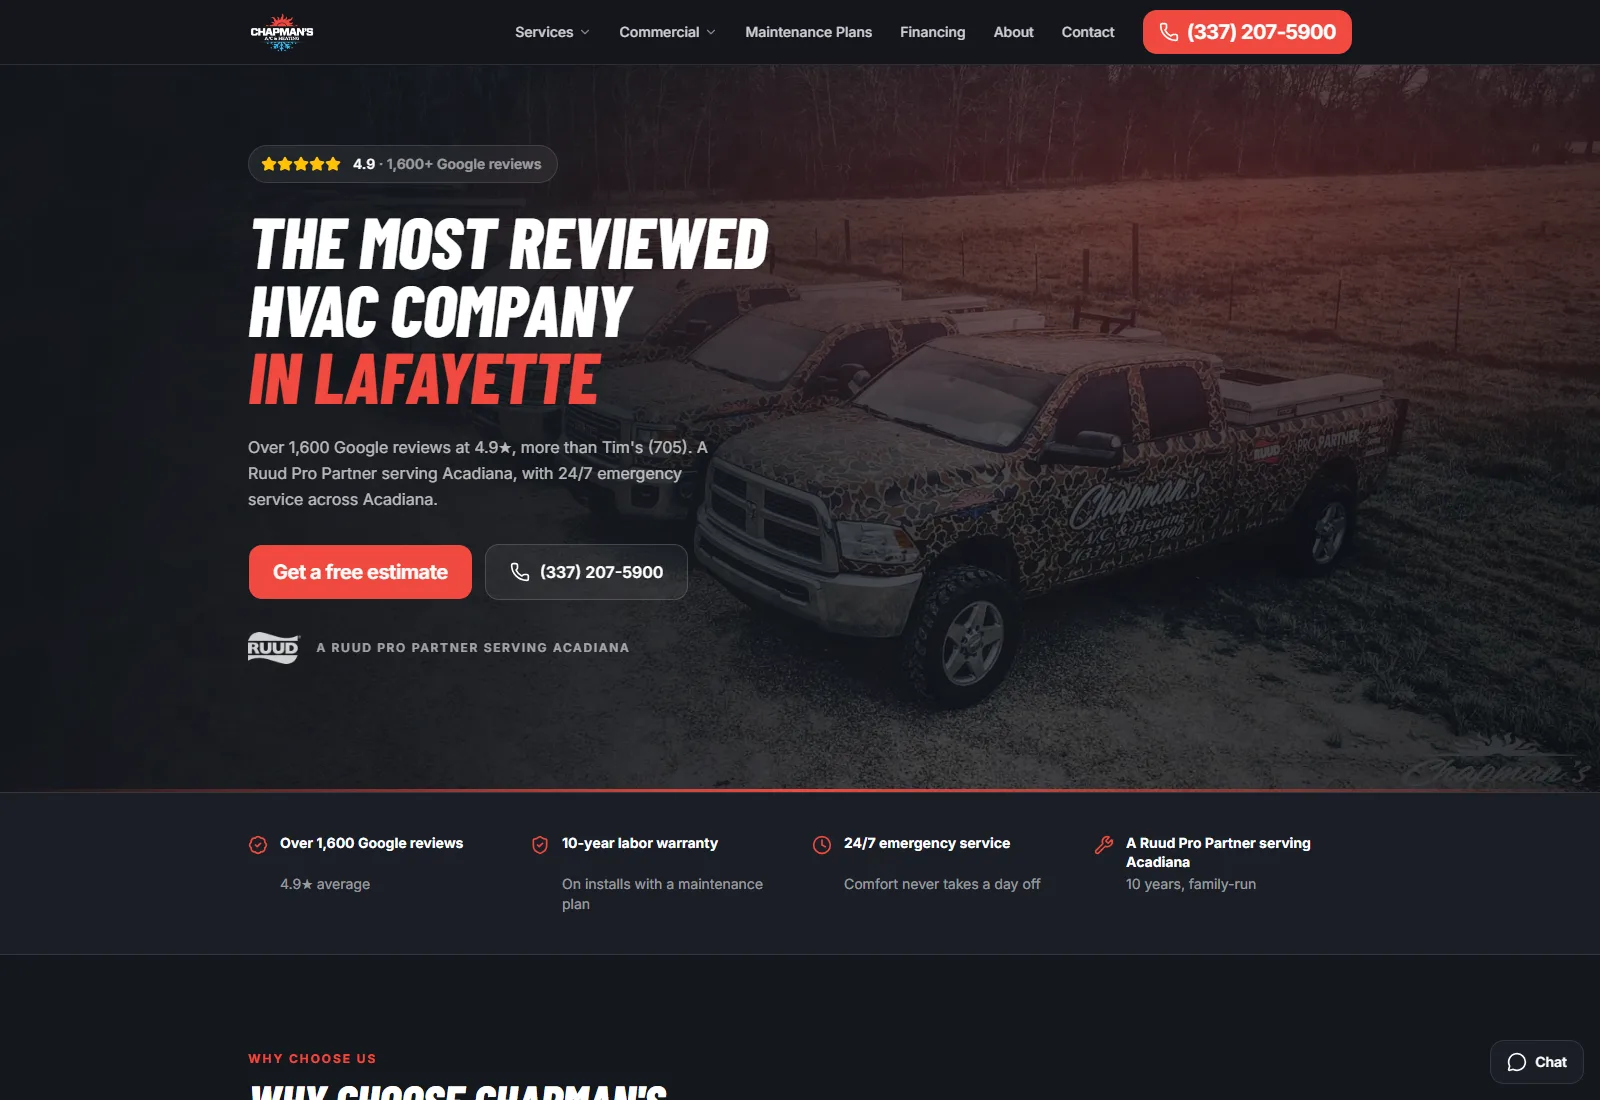
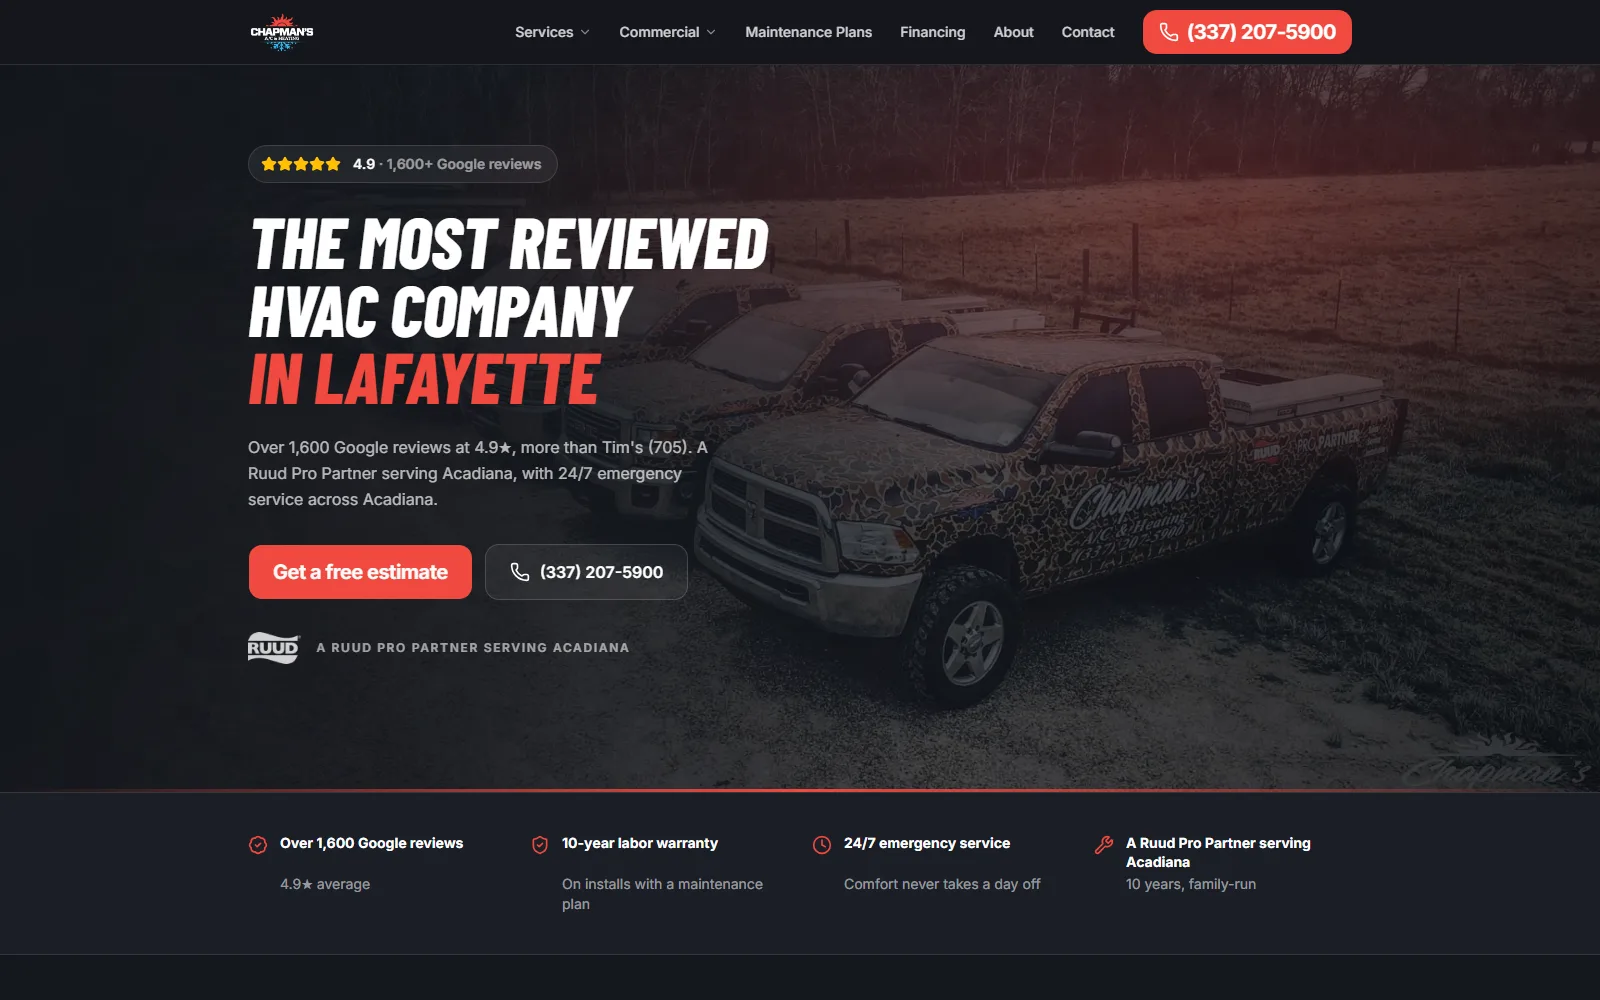
fix: responsive pass across mobile/tablet/laptop from 4-viewport audit
- grid-column spans scoped to >=1024 (story/experience/footer/contact) -
  span-N children in 1-col grids were creating implicit tracks and
  squeezing content
- email link: nowrap + JS fit-to-container, no more mid-address breaks
- credentials: stacked rows <640, single column until 1280
- work cards: meta stacks <640; SAVAGE shot anchored left-top;
  Chapman's card image recropped to end in whitespace
- stack dots attached as tag pseudo-elements (no orphaned bullets)
- lightbox: solid bg + pannable 2x image + drag hint <=640; 44px touch
  targets for close/prev/next; nav links get real touch padding
- impact 4-up moved to >=1280 (2x2 at tablet), label measure relaxed
- contact grid two-column only >=1280
- hero: description scrim + smaller portrait <=640; scroll cue backdrop

diff --git a/index.html b/index.html
@@ -79,12 +79,13 @@ header.site-nav{position:fixed;inset-inline:0;top:0;z-index:50;pointer-events:no
 header.site-nav nav{pointer-events:auto;display:flex;align-items:center;justify-content:space-between;padding:1.5rem var(--gutter)}
 .logo{display:flex;align-items:center;gap:0.75rem}
 .logo .mono{display:grid;place-items:center;width:2.5rem;height:2.5rem;border-radius:9999px;border:1px solid var(--line-strong);font-weight:600;letter-spacing:-0.01em;font-size:var(--fs-eyebrow)}
-.logo .name{display:none;font-size:var(--fs-eyebrow);font-weight:500;text-transform:uppercase;letter-spacing:0.22em;color:var(--muted)}
+.logo .name{display:none;font-size:var(--fs-eyebrow);font-weight:500;text-transform:uppercase;letter-spacing:0.22em;color:var(--muted);white-space:nowrap}
 @media (min-width:640px){.logo .name{display:block}}
 .nav-links{display:none;gap:2.5rem}
-@media (min-width:768px){.nav-links{display:flex}}
-.nav-links a{position:relative;font-size:var(--fs-eyebrow);font-weight:500;text-transform:uppercase;letter-spacing:0.18em;color:var(--muted);transition:color 300ms ease}
-.nav-links a::after{content:"";position:absolute;bottom:-0.25rem;left:0;height:1px;width:0;background:var(--accent);transition:width 340ms ease-out}
+@media (min-width:768px){.nav-links{display:flex;align-items:center}}
+@media (min-width:768px) and (max-width:1200px){.nav-links{gap:1.5rem}}
+.nav-links a{position:relative;font-size:var(--fs-eyebrow);font-weight:500;text-transform:uppercase;letter-spacing:0.18em;color:var(--muted);transition:color 300ms ease;padding:0.75rem 0.25rem;display:inline-flex;align-items:center}
+.nav-links a::after{content:"";position:absolute;bottom:0.35rem;left:0.25rem;height:1px;width:0;background:var(--accent);transition:width 340ms ease-out}
 .nav-links a:hover{color:var(--foreground)}
 .nav-links a:hover::after{width:100%}
 .burger{display:flex;flex-direction:column;justify-content:center;gap:0.375rem;width:2.5rem;height:2.5rem;align-items:center}
@@ -107,6 +108,10 @@ header.site-nav nav{pointer-events:auto;display:flex;align-items:center;justify-
 .hero-roles .line-mask>span{transition-duration:760ms}
 .hero-desc{max-width:26rem;font-size:var(--fs-body);color:var(--muted);opacity:0;transform:translateY(16px);transition:opacity 520ms var(--ease-out-expo),transform 520ms var(--ease-out-expo)}
 @media (min-width:640px){.hero-desc{text-align:right}}
+@media (max-width:640px){
+  .hero-desc{position:relative;z-index:31;padding:0.75rem;margin-inline:-0.75rem;background:linear-gradient(180deg,rgba(8,8,10,0.88),rgba(8,8,10,0.6) 80%,transparent);border-radius:0.125rem}
+  .hero-portrait{height:72vh;width:96vw}
+}
 .hero-desc.show{opacity:1;transform:none}
 .hero-portrait{position:absolute;bottom:0;left:50%;transform:translateX(-50%);z-index:20;height:86vh;width:80vw;pointer-events:none}
 .hero-portrait .liquid{width:100%;height:100%;pointer-events:auto}
@@ -119,7 +124,7 @@ header.site-nav nav{pointer-events:auto;display:flex;align-items:center;justify-
 .hero-name .lt{display:inline-block;overflow:hidden;vertical-align:bottom}
 .hero-name .lt>span{display:inline-block;transform:translateY(100%);opacity:0;transition:transform 900ms var(--ease-out-expo),opacity 900ms var(--ease-out-expo)}
 .hero-name .lt>span.in{transform:none;opacity:1}
-.scroll-cue{position:absolute;bottom:2rem;left:var(--gutter);z-index:30;display:flex;align-items:center;gap:0.75rem;font-size:var(--fs-eyebrow);text-transform:uppercase;letter-spacing:0.22em;color:var(--muted);opacity:0;transition:opacity 800ms ease}
+.scroll-cue{position:absolute;bottom:2rem;left:var(--gutter);z-index:30;display:flex;align-items:center;gap:0.75rem;font-size:var(--fs-eyebrow);text-transform:uppercase;letter-spacing:0.22em;color:var(--foreground);opacity:0;transition:opacity 800ms ease;padding:0.5rem 1rem 0.5rem 0;background:linear-gradient(90deg,rgba(8,8,10,0.8) 60%,transparent)}
 .scroll-cue::before{content:"";width:2.5rem;height:1px;background:var(--accent)}
 .scroll-cue.show{opacity:1}
 
@@ -142,9 +147,10 @@ section.pad,footer.pad{padding:var(--section) var(--gutter)}
 /* story */
 #story .grid{display:grid;grid-template-columns:1fr;gap:3rem}
 @media (min-width:1024px){#story .grid{grid-template-columns:repeat(12,1fr);gap:var(--gutter)}}
-#story .left{grid-column:span 6}
-#story .right{grid-column:span 6}
-@media (min-width:1024px){#story .right{padding-top:0.5rem}}
+@media (min-width:1024px){
+  #story .left{grid-column:span 6}
+  #story .right{grid-column:span 6;padding-top:0.5rem}
+}
 #story h2{max-width:16ch}
 #story .lead{margin-top:2rem;max-width:46ch;font-size:var(--fs-lead);line-height:1.45;color:var(--muted)}
 .principle{display:grid;grid-template-columns:auto 1fr;column-gap:1.5rem;border-top:1px solid var(--line);padding:2rem 0}
@@ -160,36 +166,43 @@ section.pad,footer.pad{padding:var(--section) var(--gutter)}
   #work ul.cards>li:nth-child(even){margin-top:6rem}
 }
 .card .liquid{aspect-ratio:16/11;width:100%;border-radius:0.125rem}
-.card .meta{margin-top:1.5rem;border-top:1px solid var(--line);padding-top:1.25rem;display:flex;align-items:flex-start;justify-content:space-between;gap:1.5rem}
+.card .meta{margin-top:1.5rem;border-top:1px solid var(--line);padding-top:1.25rem;display:block}
+@media (min-width:640px){.card .meta{display:flex;align-items:flex-start;justify-content:space-between;gap:1.5rem}}
+.card .meta > div:first-child{min-width:0}
 .card h3{font-size:var(--fs-h3);font-weight:600;letter-spacing:-0.01em;line-height:1.15;transition:color 340ms ease-out}
 .card:hover h3{color:var(--accent)}
 .card .blurb{margin-top:0.5rem;max-width:42ch;color:var(--muted)}
-.card .side{flex-shrink:0;text-align:right}
+.card .side{display:flex;align-items:baseline;gap:1.25rem;margin-top:0.75rem}
+@media (min-width:640px){.card .side{display:block;flex-shrink:0;text-align:right;margin-top:0}}
 .card .year{font-size:var(--fs-eyebrow);text-transform:uppercase;letter-spacing:0.18em;color:var(--muted)}
-.card .outcome{margin-top:0.5rem;font-size:var(--fs-eyebrow);font-weight:500;text-transform:uppercase;letter-spacing:0.18em;color:var(--accent)}
+.card .outcome{font-size:var(--fs-eyebrow);font-weight:500;text-transform:uppercase;letter-spacing:0.18em;color:var(--accent)}
+@media (min-width:640px){.card .outcome{margin-top:0.5rem}}
 .card .cat{margin-top:0.75rem;font-size:var(--fs-eyebrow);text-transform:uppercase;letter-spacing:0.22em;color:var(--muted)}
 
 /* impact */
 #impact dl{margin-top:4rem;display:grid;grid-template-columns:1fr;border-top:1px solid var(--line)}
 @media (min-width:640px){#impact dl{grid-template-columns:1fr 1fr}}
-@media (min-width:1024px){#impact dl{grid-template-columns:repeat(4,1fr)}}
+@media (min-width:1280px){#impact dl{grid-template-columns:repeat(4,1fr)}}
 #impact .stat{display:flex;flex-direction:column;gap:1rem;border-bottom:1px solid var(--line);padding:2.5rem 0}
-@media (min-width:1024px){#impact .stat{padding:3rem 0}}
-@media (min-width:640px) and (max-width:1023.9px){
+@media (min-width:1280px){#impact .stat{padding:3rem 0}}
+@media (min-width:640px) and (max-width:1279.9px){
   #impact .stat:nth-child(even){border-left:1px solid var(--line);padding-left:2rem}
 }
-@media (min-width:1024px){
+@media (min-width:1280px){
   #impact .stat:not(:nth-child(4n+1)){border-left:1px solid var(--line);padding-left:2rem}
 }
 #impact dd{font-family:var(--font-display);font-size:var(--fs-display);line-height:1;letter-spacing:-0.01em;transition:color 340ms ease-out}
 #impact .stat:hover dd{color:var(--accent)}
-#impact dt{max-width:20ch;font-size:var(--fs-body);text-transform:uppercase;letter-spacing:0.14em;color:var(--muted)}
+#impact dt{max-width:28ch;font-size:var(--fs-body);text-transform:uppercase;letter-spacing:0.14em;color:var(--muted)}
+@media (min-width:1280px){#impact dt{max-width:20ch}}
 
 /* experience (voices pattern) */
 #experience .grid{margin-top:4rem;display:grid;grid-template-columns:1fr;gap:3rem}
 @media (min-width:1024px){#experience .grid{grid-template-columns:repeat(12,1fr);gap:var(--gutter)}}
-#experience .selector{grid-column:span 5}
-#experience .panel{grid-column:span 7}
+@media (min-width:1024px){
+  #experience .selector{grid-column:span 5}
+  #experience .panel{grid-column:span 7}
+}
 .xp-btn{display:flex;align-items:baseline;gap:1.25rem;width:100%;border-top:1px solid var(--line);padding:1.75rem 0;text-align:left}
 #experience li:last-child .xp-btn{border-bottom:1px solid var(--line)}
 .xp-btn .idx{font-size:var(--fs-eyebrow);font-variant-numeric:tabular-nums;letter-spacing:0.18em;color:var(--muted);transition:color 300ms}
@@ -206,11 +219,16 @@ section.pad,footer.pad{padding:var(--section) var(--gutter)}
 
 /* credentials */
 #credentials ul{margin-top:4rem;display:grid;grid-template-columns:1fr;column-gap:var(--gutter)}
-@media (min-width:768px){#credentials ul{grid-template-columns:1fr 1fr}}
-#credentials li a{display:flex;align-items:baseline;justify-content:space-between;gap:1.5rem;border-top:1px solid var(--line);padding:1.1rem 0}
-#credentials li a .t{font-weight:500;letter-spacing:-0.01em;transition:color 300ms}
+@media (min-width:1280px){#credentials ul{grid-template-columns:1fr 1fr}}
+#credentials li a{display:block;border-top:1px solid var(--line);padding:1.1rem 0}
+#credentials li a .t{display:block;font-weight:500;letter-spacing:-0.01em;transition:color 300ms}
 #credentials li a:hover .t{color:var(--accent)}
-#credentials li a .m{flex-shrink:0;text-align:right;font-size:var(--fs-eyebrow);text-transform:uppercase;letter-spacing:0.14em;color:var(--muted)}
+#credentials li a .m{display:block;margin-top:0.35rem;font-size:var(--fs-eyebrow);text-transform:uppercase;letter-spacing:0.14em;color:var(--muted)}
+@media (min-width:640px){
+  #credentials li a{display:flex;align-items:baseline;justify-content:space-between;gap:1.5rem}
+  #credentials li a .t{min-width:0}
+  #credentials li a .m{margin-top:0;flex-shrink:0;text-align:right}
+}
 
 /* stack */
 #stack ul.stack-groups{margin-top:4rem}
@@ -218,17 +236,17 @@ section.pad,footer.pad{padding:var(--section) var(--gutter)}
 .stack-group:last-child{border-bottom:1px solid var(--line)}
 .stack-group .num{font-size:var(--fs-h3);font-weight:600;font-variant-numeric:tabular-nums;color:var(--accent);line-height:1.15}
 .stack-group h3{font-size:var(--fs-h3);font-weight:600;letter-spacing:-0.01em;line-height:1.15}
-.skill-tags{margin-top:1.25rem;display:flex;flex-wrap:wrap;align-items:center;row-gap:0.75rem}
+.skill-tags{margin-top:1.25rem;display:flex;flex-wrap:wrap;align-items:center;gap:0.75rem 1rem}
 .skill-tags .tag{font-family:var(--font-display);font-size:1.5rem;text-transform:uppercase;letter-spacing:0.02em;line-height:1;color:var(--foreground);transition:color 300ms ease-out;white-space:nowrap}
 .skill-tags .tag:hover{color:var(--accent)}
-.skill-tags .sdot{width:0.375rem;height:0.375rem;border-radius:9999px;background:var(--accent);margin-inline:1rem;flex-shrink:0}
+.skill-tags .tag:not(:last-child)::after{content:"";display:inline-block;width:0.375rem;height:0.375rem;border-radius:9999px;background:var(--accent);margin-left:1rem;vertical-align:middle}
 
 /* contact form */
 .contact-grid{display:grid;grid-template-columns:1fr;gap:4rem}
-@media (min-width:1024px){
+@media (min-width:1280px){
   .contact-grid{grid-template-columns:repeat(12,1fr);gap:var(--gutter)}
-  .c-left{grid-column:span 7}
-  .c-right{grid-column:span 5;padding-top:0.5rem}
+  .c-left{grid-column:1 / span 6}
+  .c-right{grid-column:8 / span 5;padding-top:0.5rem}
 }
 .form-title{font-size:var(--fs-h3);font-weight:600;letter-spacing:-0.01em;line-height:1.15}
 #contactForm label{display:block;font-size:var(--fs-eyebrow);font-weight:500;text-transform:uppercase;letter-spacing:0.18em;color:var(--muted);margin-top:2rem}
@@ -252,7 +270,7 @@ section.pad,footer.pad{padding:var(--section) var(--gutter)}
 #contact h2{max-width:18ch;font-size:var(--fs-h1);line-height:0.95}
 @media (min-width:640px){#contact h2{font-size:var(--fs-display)}}
 #contact .note{margin-top:2rem;max-width:44ch;font-size:var(--fs-lead);line-height:1.45;color:var(--muted)}
-.email-link{margin-top:3rem;display:inline-flex;align-items:baseline;gap:0.75rem;font-size:var(--fs-h3);font-weight:600;letter-spacing:-0.01em;word-break:break-all;transition:transform 340ms ease-out,color 340ms ease-out}
+.email-link{margin-top:3rem;display:inline-flex;align-items:baseline;gap:0.75rem;font-size:var(--fs-h3);font-weight:600;letter-spacing:-0.01em;white-space:nowrap;transition:transform 340ms ease-out,color 340ms ease-out}
 @media (min-width:640px){.email-link{font-size:var(--fs-h1);gap:1rem}}
 .email-link .arrow{color:var(--accent)}
 .email-link:hover{transform:translateX(14px);color:var(--accent)}
@@ -261,31 +279,38 @@ section.pad,footer.pad{padding:var(--section) var(--gutter)}
 .resume-link:hover{color:var(--foreground)}
 .foot-bar{margin-top:var(--section);border-top:1px solid var(--line);padding:3rem 0;display:grid;grid-template-columns:1fr;gap:2.5rem}
 @media (min-width:1024px){.foot-bar{grid-template-columns:repeat(12,1fr)}}
-.foot-sig{grid-column:span 6}
+@media (min-width:1024px){.foot-sig{grid-column:span 6}}
 .foot-sig .sig{font-family:var(--font-display);font-size:var(--fs-h2);text-transform:uppercase;line-height:1;letter-spacing:-0.01em}
 .foot-sig .sub{margin-top:1rem;font-size:var(--fs-eyebrow);text-transform:uppercase;letter-spacing:0.22em;color:var(--muted)}
-.foot-social{grid-column:span 3}
+@media (min-width:1024px){.foot-social{grid-column:span 3}}
 .foot-social a{display:inline-flex;align-items:center;gap:0;color:var(--muted);transition:color 300ms;padding:0.2rem 0}
 .foot-social a::before{content:"";width:0;height:1px;background:var(--accent);transition:width 300ms ease-out,margin 300ms ease-out}
 .foot-social a:hover{color:var(--foreground)}
 .foot-social a:hover::before{width:1.5rem;margin-right:0.6rem}
-.foot-copy{grid-column:span 3;font-size:var(--fs-eyebrow);text-transform:uppercase;letter-spacing:0.18em;color:var(--muted)}
-@media (min-width:1024px){.foot-copy{text-align:right}}
+.foot-copy{font-size:var(--fs-eyebrow);text-transform:uppercase;letter-spacing:0.18em;color:var(--muted)}
+@media (min-width:1024px){.foot-copy{grid-column:span 3;text-align:right}}
 
 /* ============ lightbox ============ */
 #lightbox{position:fixed;inset:0;z-index:70;background:rgba(8,8,10,0.96);display:flex;flex-direction:column;padding:var(--gutter);opacity:0;pointer-events:none;transition:opacity 300ms ease}
 #lightbox.open{opacity:1;pointer-events:auto}
 .lb-top{display:flex;align-items:center;justify-content:space-between;gap:1rem}
 .lb-title{font-family:var(--font-display);font-size:var(--fs-h3);text-transform:uppercase;letter-spacing:-0.01em;line-height:1}
-#lbClose{font-size:var(--fs-eyebrow);font-weight:600;text-transform:uppercase;letter-spacing:0.18em;color:var(--muted);transition:color 300ms}
+#lbClose{font-size:var(--fs-eyebrow);font-weight:600;text-transform:uppercase;letter-spacing:0.18em;color:var(--muted);transition:color 300ms;padding:0.75rem 0 0.75rem 1rem;min-height:44px;display:inline-flex;align-items:center}
 #lbClose:hover{color:var(--accent)}
 .lb-stage{flex:1;display:grid;place-items:center;min-height:0;padding:1.5rem 0}
 .lb-stage img{max-width:100%;max-height:100%;object-fit:contain;border:1px solid var(--line);background:#fff}
 .lb-bottom{display:flex;align-items:center;justify-content:space-between}
 .lb-count{font-size:var(--fs-eyebrow);letter-spacing:0.18em;color:var(--muted);font-variant-numeric:tabular-nums;text-transform:uppercase}
-.lb-nav{display:flex;gap:2rem}
-.lb-nav button{font-size:var(--fs-eyebrow);font-weight:600;text-transform:uppercase;letter-spacing:0.18em;color:var(--foreground);transition:color 300ms}
+.lb-nav{display:flex;gap:1.25rem}
+.lb-nav button{font-size:var(--fs-eyebrow);font-weight:600;text-transform:uppercase;letter-spacing:0.18em;color:var(--foreground);transition:color 300ms;padding:0.75rem 1rem;min-height:44px;display:inline-flex;align-items:center}
 .lb-nav button:hover{color:var(--accent)}
+@media (max-width:640px){
+  #lightbox{background:var(--background)}
+  .lb-stage{display:block;overflow:auto;-webkit-overflow-scrolling:touch}
+  .lb-stage img{max-width:none;max-height:none;width:200%;height:auto}
+  .lb-hint{display:block}
+}
+.lb-hint{display:none;font-size:var(--fs-eyebrow);text-transform:uppercase;letter-spacing:0.18em;color:var(--muted)}
 .card-open{display:block;width:100%;text-align:left;cursor:pointer}
 .ops-btn{margin-top:1rem;display:inline-flex;align-items:center;gap:0.75rem;font-size:var(--fs-eyebrow);font-weight:600;text-transform:uppercase;letter-spacing:0.18em;color:var(--muted);transition:color 300ms;cursor:pointer}
 .ops-btn::before{content:"";width:1.5rem;height:1px;background:var(--accent)}
@@ -577,6 +602,7 @@ section.pad,footer.pad{padding:var(--section) var(--gutter)}
   <div class="lb-stage"><img id="lbImg" alt="Project preview"></div>
   <div class="lb-bottom">
     <p class="lb-count" id="lbCount"></p>
+    <p class="lb-hint">Drag to pan</p>
     <div class="lb-nav">
       <button type="button" id="lbPrev">&#8592; Prev</button>
       <button type="button" id="lbNext">Next &#8594;</button>
@@ -630,7 +656,7 @@ const PROJECTS = [
     gallery:["public/work-shots/bayou-ops-1.webp","public/work-shots/bayou-ops-2.webp","public/work-shots/bayou-ops-3.webp"] },
   { title:"SAVAGE LLC Internal Portal", year:"2026", outcome:"React", cat:"Internal Tools",
     blurb:"Company operations dashboard for time tracking, tasks, announcements, chat, and files — daily staff workflows in one responsive workspace.",
-    link:"https://github.com/ITGuns/Internal-Company-Portal---SAVAGE-LLC", img:"public/work-shots/company-portal-dashboard.png" },
+    link:"https://github.com/ITGuns/Internal-Company-Portal---SAVAGE-LLC", img:"public/work-shots/company-portal-dashboard.png", pos:"left top" },
   { title:"Zakay", year:"2026", outcome:"Figma", cat:"Mobile UI/UX",
     blurb:"Smart route companion for Davao commuters — route discovery, travel comparison, and clearer guidance through local transit.",
     link:"https://www.figma.com/design/kHko6qSXHIuSVWfweAAfyt/Untitled?node-id=0-1&t=fgLpNQs3PcqMhwcz-1", img:"public/work-shots/zakay-figma.webp" },
@@ -770,7 +796,7 @@ PROJECTS.forEach((p,i) => {
   li.style.transitionDelay = (i % 2 === 1 ? 120 : 0) + "ms";
   const card = `
       <article class="card">
-        <figure class="liquid" role="img" aria-label="${p.title}" data-label="${p.title}"${p.img?` data-src="${p.img}"`:""}></figure>
+        <figure class="liquid" role="img" aria-label="${p.title}" data-label="${p.title}"${p.img?` data-src="${p.img}"`:""}${p.pos?` data-pos="${p.pos}"`:""}></figure>
         <div class="meta">
           <div>
             <h3>${p.title}</h3>
@@ -891,7 +917,7 @@ STACK.forEach((g,i) => {
     <span class="num">0${i+1}</span>
     <div>
       <h3>${g.title}</h3>
-      <div class="skill-tags">${g.skills.map(s => `<span class="tag">${s}</span>`).join('<span class="sdot"></span>')}</div>
+      <div class="skill-tags">${g.skills.map(s => `<span class="tag">${s}</span>`).join('')}</div>
     </div>`;
   stackUl.appendChild(li);
 });
@@ -961,9 +987,20 @@ function fitHeroName(){
     name.style.fontSize = (document.documentElement.clientWidth * 0.985 / maxRatio) + "px";
   }
 }
-if (document.fonts && document.fonts.ready) document.fonts.ready.then(fitHeroName);
-fitHeroName();
-addEventListener("resize", fitHeroName);
+function fitEmailLink(){
+  const a = document.querySelector(".email-link");
+  if (!a) return;
+  a.style.removeProperty("font-size");
+  const avail = a.parentElement.clientWidth;
+  if (a.scrollWidth > avail){
+    const cs = parseFloat(getComputedStyle(a).fontSize);
+    a.style.fontSize = Math.max(16, cs * avail / a.scrollWidth * 0.98) + "px";
+  }
+}
+function fitAll(){ fitHeroName(); fitEmailLink(); }
+if (document.fonts && document.fonts.ready) document.fonts.ready.then(fitAll);
+fitAll();
+addEventListener("resize", fitAll);
 
 /* ---------- hero name letter split ---------- */
 document.querySelectorAll("#heroName .nl").forEach(line => {
